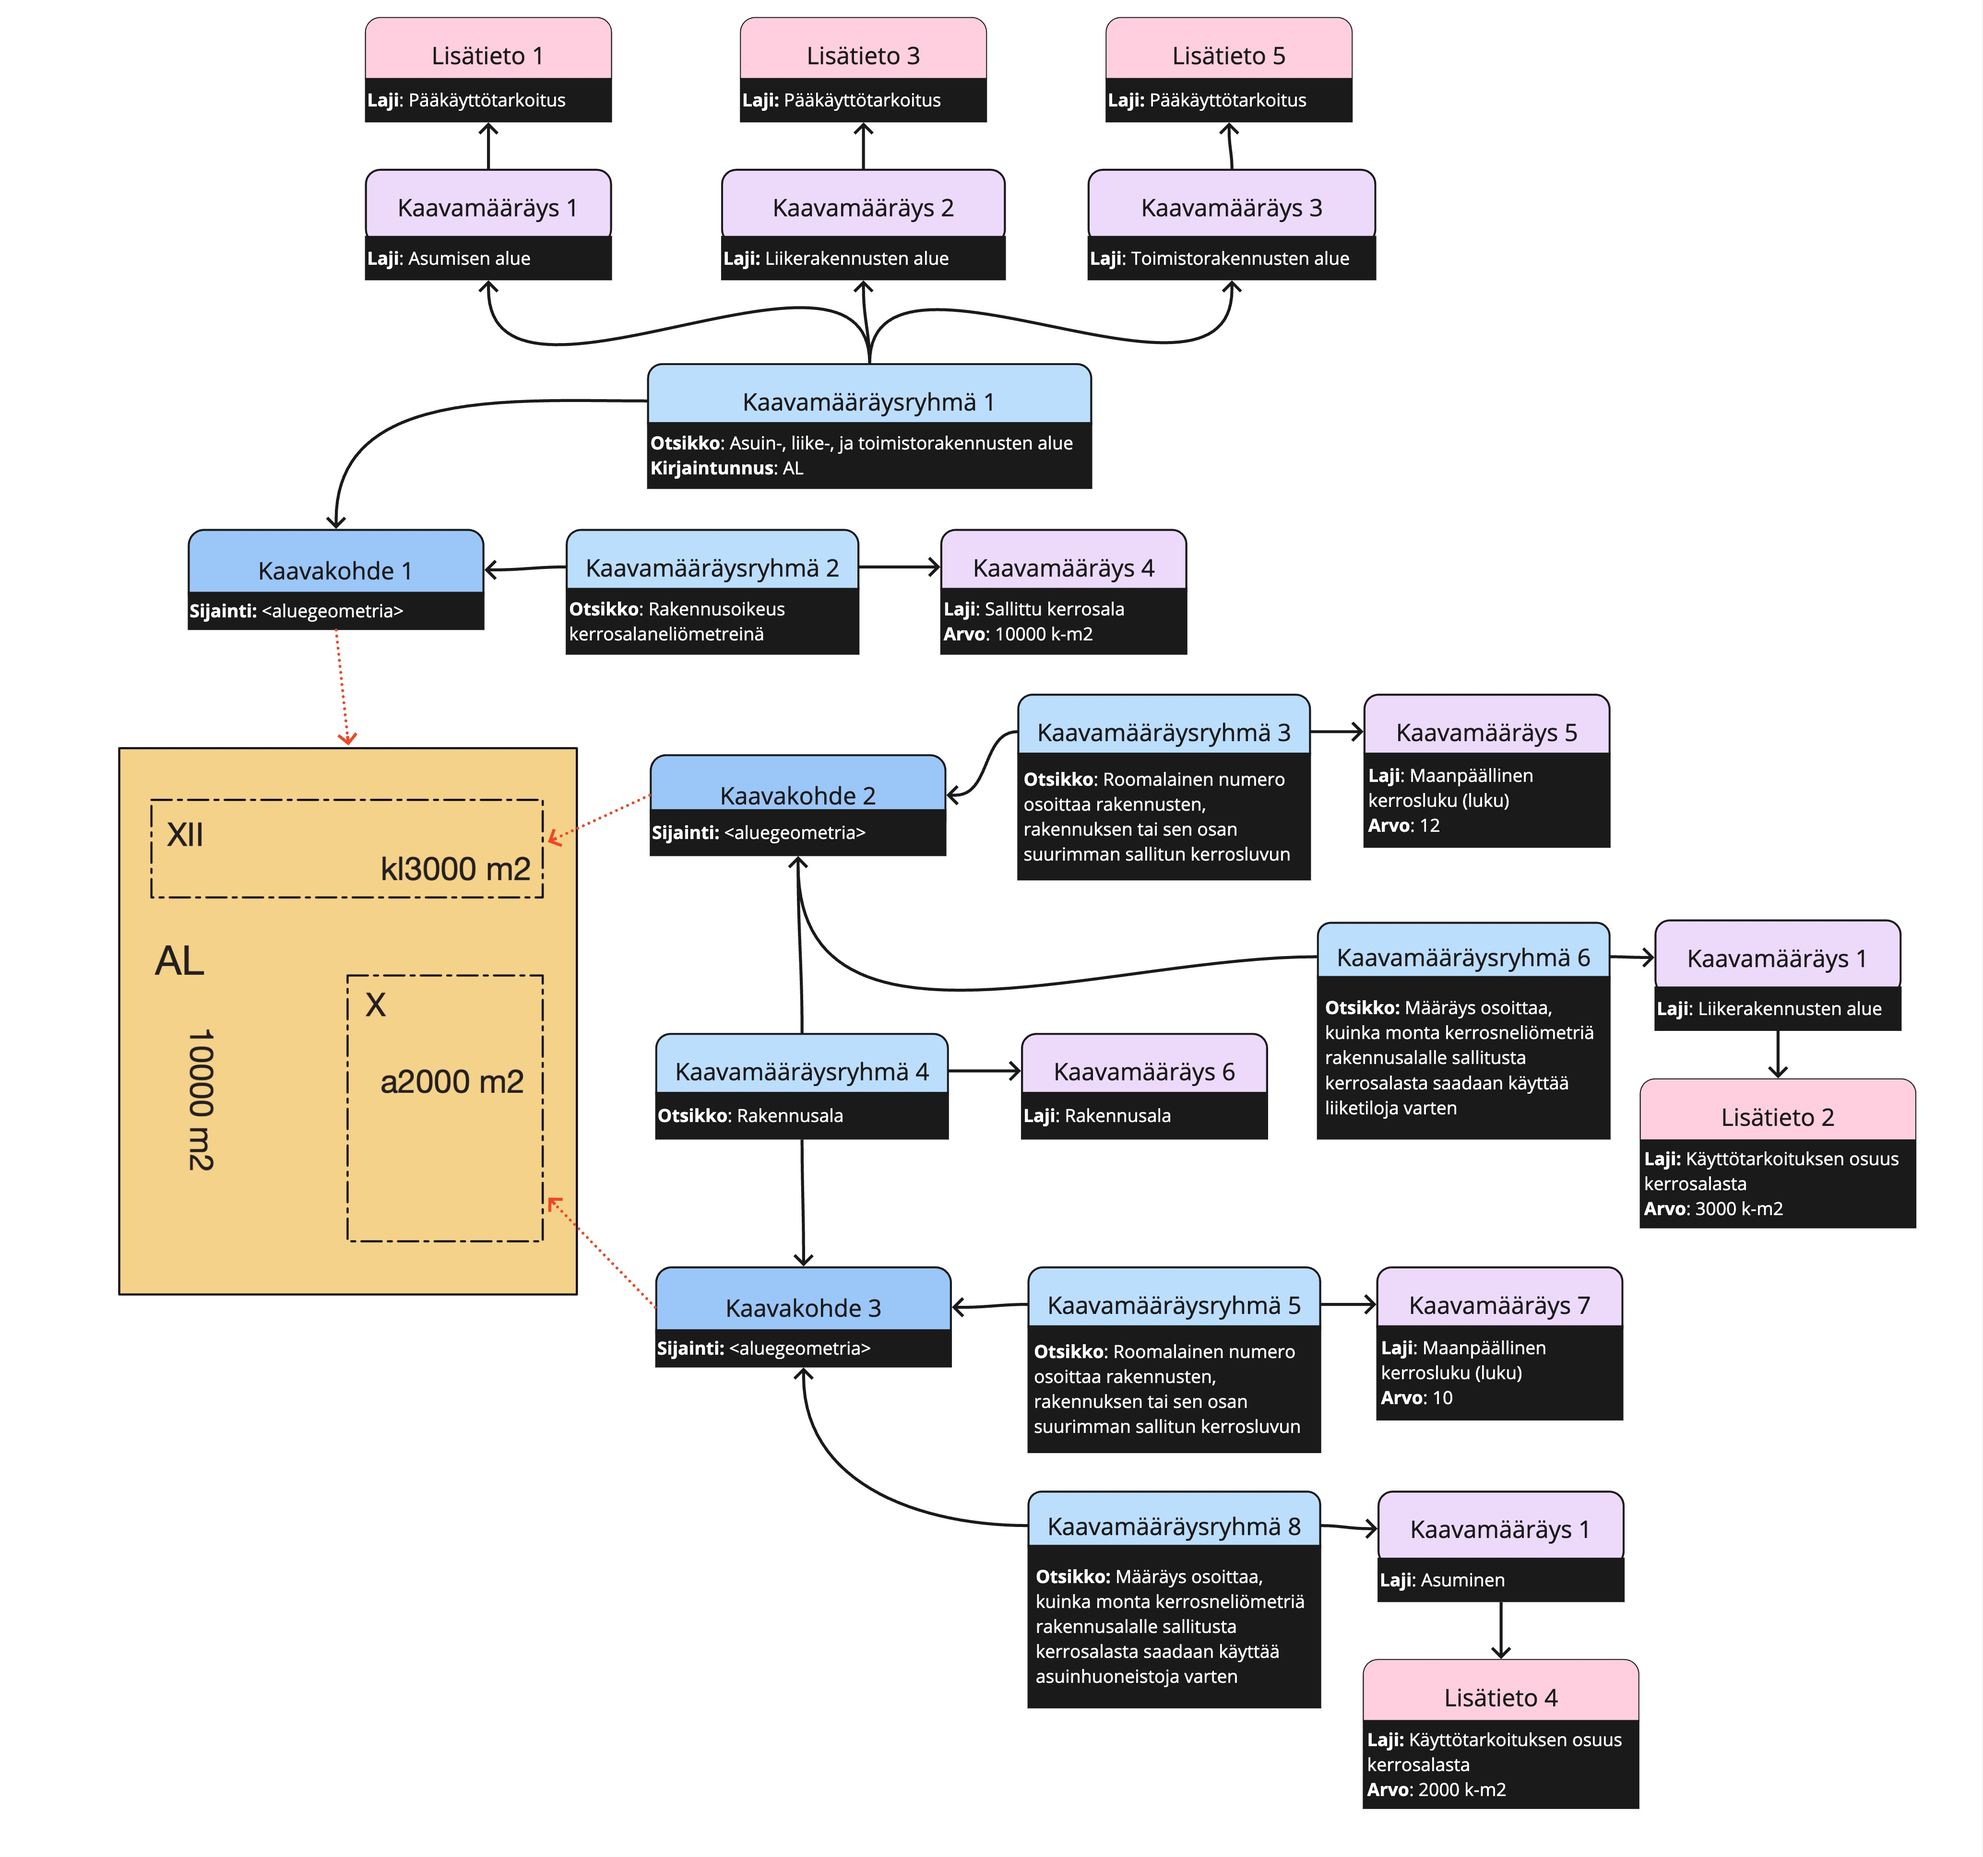
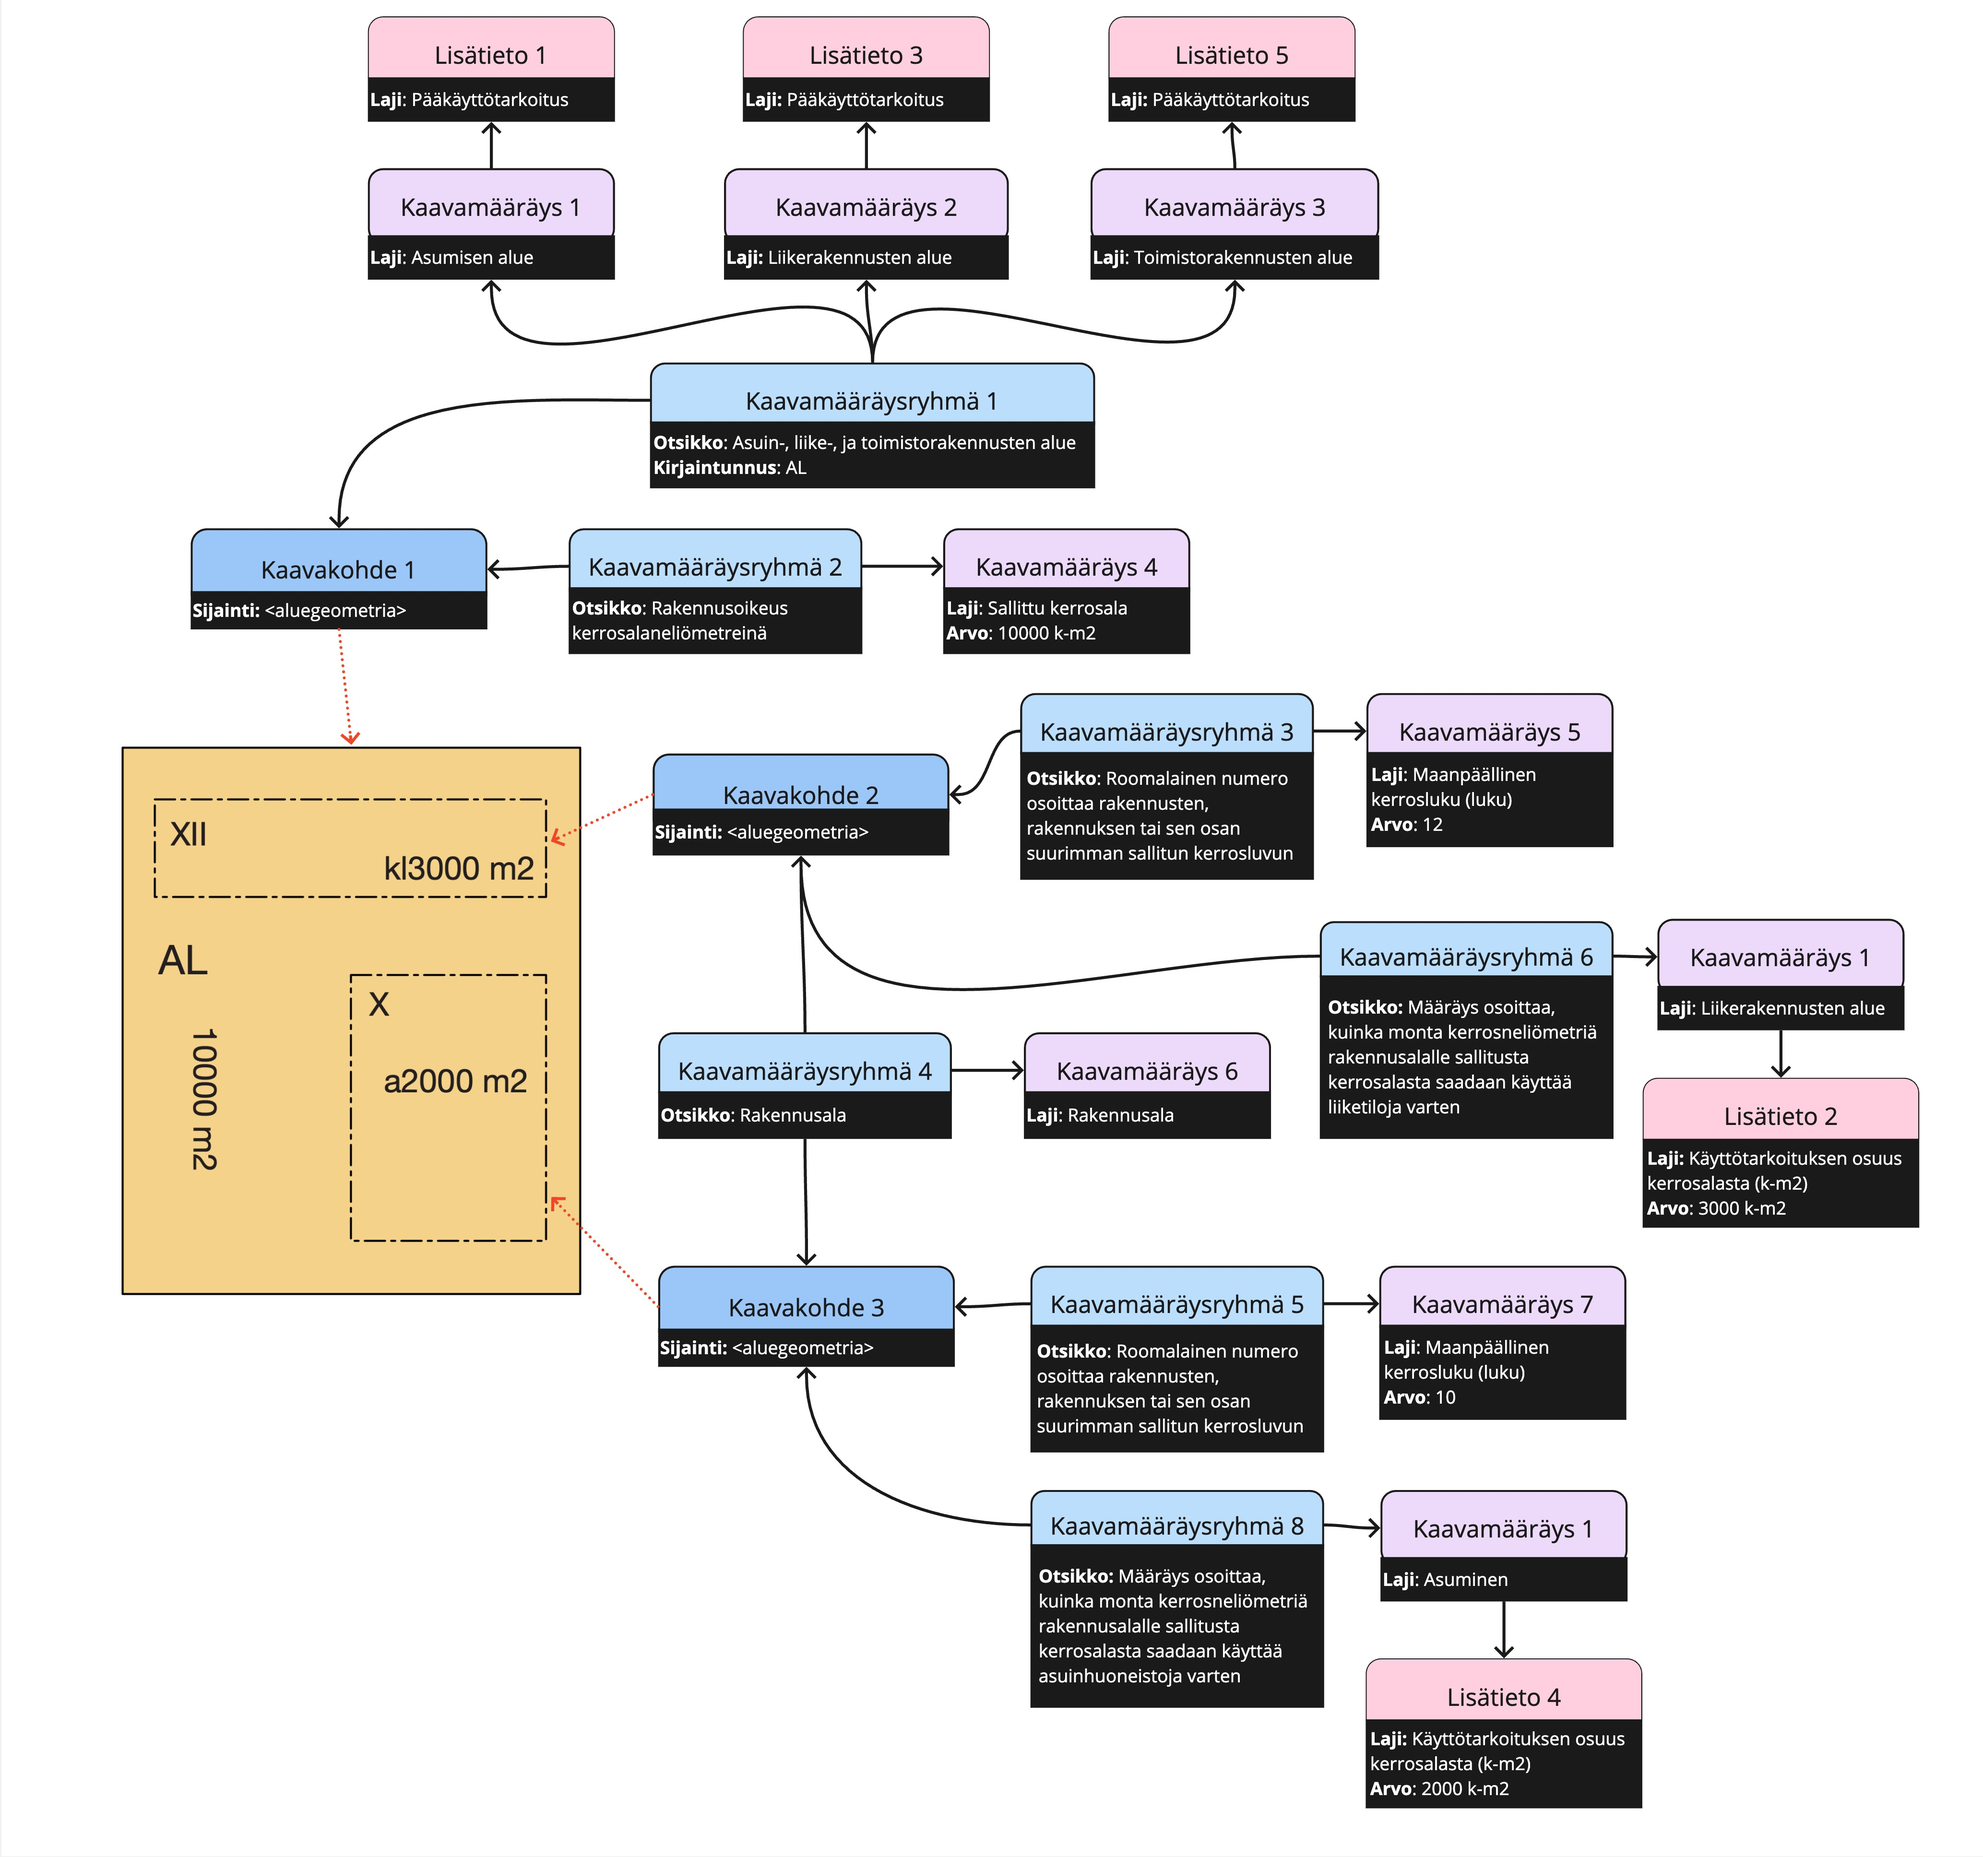
Lisätty uusi variaatio, jossa prosettiosat rakennusalojen rakennusoikeuksista osoitettu käyttötarkoitukseen. Pieniä korjauksi kuviin

diff --git a/json-esimerkit/kaavoitus/sallittuKerrosala/README.md b/json-esimerkit/kaavoitus/sallittuKerrosala/README.md
@@ -37,16 +37,25 @@ JSON: [SpatialPlan-useampiKayttotarkoituskohdistus](./SpatialPlan-useampiKayttot
 ## SpatialPlan-osaRakennusalastaVarattuKayttotarkoitukseen
 ![kuva esimerkistä](kuvat/osa-rakennusalan-rakennusoikeudesta-osoitettu-kayttotarkoitukseen.jpg "Osa rakennusalakohtaisesta rakennusoikeudesta osoitettu käyttötarkoituksittain")
 
-AL-korttelin alueelle aluevaraukseen ei ole osoitettu lainkaan rakennusoikeutta, vaan rakennusoikeus on osoitettu suoraan rakennusaloille. Alemmalle rakennusalalle on sallittu 4000 k-m2 ja ylemmälle rakennusalalle 6000 k-m2 rakennusoikeutta ilman käyttötarkoituskohdistusta. Korttelin sekoitettu käyttötarkoitus AL pätee. Rakennusalalle X sallitusta kokonaiskerrosalasta (4000 k-m2) on erikseen varattu asumiselle 2000 k-m2 (vastaa merkintää "a2000 m2") ja rakennusalan XII sallitusta kokonaiskerrosalasta (6000 k-m2) liikerakentamiselle 3000 k-m2 (vastaa Katja-asetuksessa määrittelemätöntä merkintää "kl3000 m2").
+AL-korttelin alueelle aluevaraukseen ei ole osoitettu lainkaan rakennusoikeutta, vaan rakennusoikeus on osoitettu suoraan rakennusaloille. Alemmalle rakennusalalle on sallittu 4000 k-m2 ja ylemmälle rakennusalalle 6000 k-m2 rakennusoikeutta ilman käyttötarkoituskohdistusta. Korttelin sekoitettu käyttötarkoitus AL pätee. Rakennusalalle X sallitusta kokonaiskerrosalasta (4000 k-m2) on erikseen osoitettu asumiselle 2000 k-m2 (vastaa merkintää "a2000 m2") ja rakennusalan XII sallitusta kokonaiskerrosalasta (6000 k-m2) liikerakentamiselle 3000 k-m2 (vastaa Katja-asetuksessa määrittelemätöntä merkintää "kl3000 m2").
 
 YAML: [SpatialPlan-osaRakennusalastaVarattuKayttotarkoitukseen.yml](./SpatialPlan-osaRakennusalastaVarattuKayttotarkoitukseen.yml)
 
-JSON: [SpatialPlan-osaRakennusalastaVarattuKayttotarkoitukseen](./SpatialPlan-useampiKayttotarkoituskohdistus.md) (generoitu automaattisesti)
+JSON: [SpatialPlan-osaRakennusalastaVarattuKayttotarkoitukseen](./SpatialPlan-osaRakennusalastaVarattuKayttotarkoitukseen.md) (generoitu automaattisesti)
+
+## SpatialPlan-prosenttiOsaRakennusalastaVarattuKayttotarkoitukseen
+![kuva esimerkistä](kuvat/prosenttiosa-rakennusalan-rakennusoikeudesta-osoitettu-kayttotarkoitukseen.jpg "Prosenttiosa rakennusalakohtaisesta rakennusoikeudesta osoitettu käyttötarkoituksittain")
+
+AL-korttelin alueelle aluevaraukseen ei ole osoitettu lainkaan rakennusoikeutta, vaan rakennusoikeus on osoitettu suoraan rakennusaloille. Alemmalle rakennusalalle on sallittu 4000 k-m2 ja ylemmälle rakennusalalle 6000 k-m2 rakennusoikeutta ilman käyttötarkoituskohdistusta. Korttelin sekoitettu käyttötarkoitus AL pätee. Rakennusalalle X sallitusta kokonaiskerrosalasta (4000 k-m2) on erikseen osoitettu asumiselle 50% (vastaa merkintää "a<sup>2</sup>50%") ja rakennusalan XII sallitusta kokonaiskerrosalasta (6000 k-m2) myymälätiloille 20% (vastaa Katja-asetuksessa määrittelemätöntä merkintää "klm<sup>2</sup>20%").
+
+YAML: [SpatialPlan-prosenttiOsaRakennusalastaVarattuKayttotarkoitukseen.yml](./SpatialPlan-prosenttiOsaRakennusalastaVarattuKayttotarkoitukseen.yml)
+
+JSON: [SpatialPlan-prosenttiOsaRakennusalastaVarattuKayttotarkoitukseen](./SpatialPlan-prosenttiOsaRakennusalastaVarattuKayttotarkoitukseen.md) (generoitu automaattisesti)
 
 ## SpatialPlan-osaRakennusalastaVarattuKayttotarkoitukseenEiRakennusalakohtaistaRakennusoikeutta
 ![kuva esimerkistä](kuvat/osa-aluevarauksen-rakennusoikeudesta-osoitettukayttotarkoitukseen-rakennusaloittain.jpg "Osa aluevarauksen rakennusoikeudesta osoitettu käyttötarkoituksittain")
 
-AL-korttelin alueelle on kokonaisuudessa sallittu 10000 k-m2 rakennusoikeutta jakamatta sitä rakennusalojen kesken. Rakennusalalle X sallitusta kokonaiskerrosalasta on varattu asumiselle 2000 k-m2 (vastaa merkintää "a2000 m2") ja rakennusalan XII sallitusta kokonaiskerrosalasta liikerakentamiselle 3000 k-m2 (vastaa Katja-asetuksessa määrittelemätöntä merkintää "kl3000 m2").
+AL-korttelin alueelle on kokonaisuudessa sallittu 10000 k-m2 rakennusoikeutta jakamatta sitä rakennusalojen kesken. Rakennusalalle X sallitusta kokonaiskerrosalasta on osoitettu asumiselle 2000 k-m2 (vastaa merkintää "a2000 m2") ja rakennusalan XII sallitusta kokonaiskerrosalasta liikerakentamiselle 3000 k-m2 (vastaa Katja-asetuksessa määrittelemätöntä merkintää "kl3000 m2").
 
 YAML: [SpatialPlan-osaRakennusalastaVarattuKayttotarkoitukseenEiRakennusalakohtaistaRakennusoikeutta.yml](./SpatialPlan-osaRakennusalastaVarattuKayttotarkoitukseenEiRakennusalakohtaistaRakennusoikeutta.yml)
 
